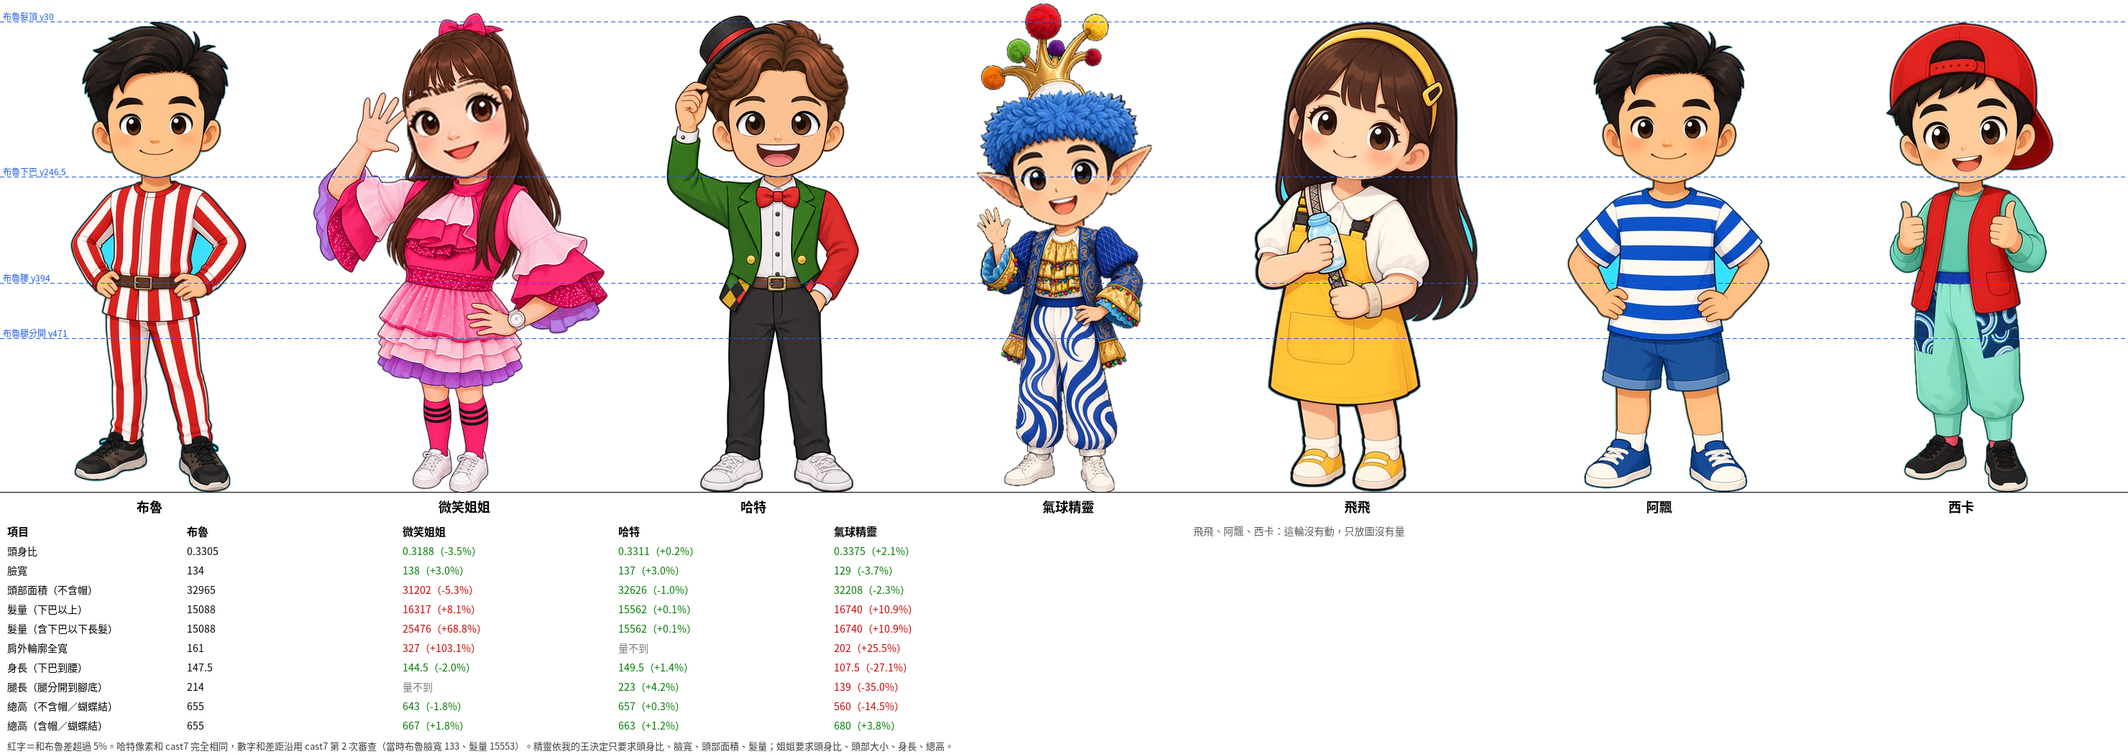
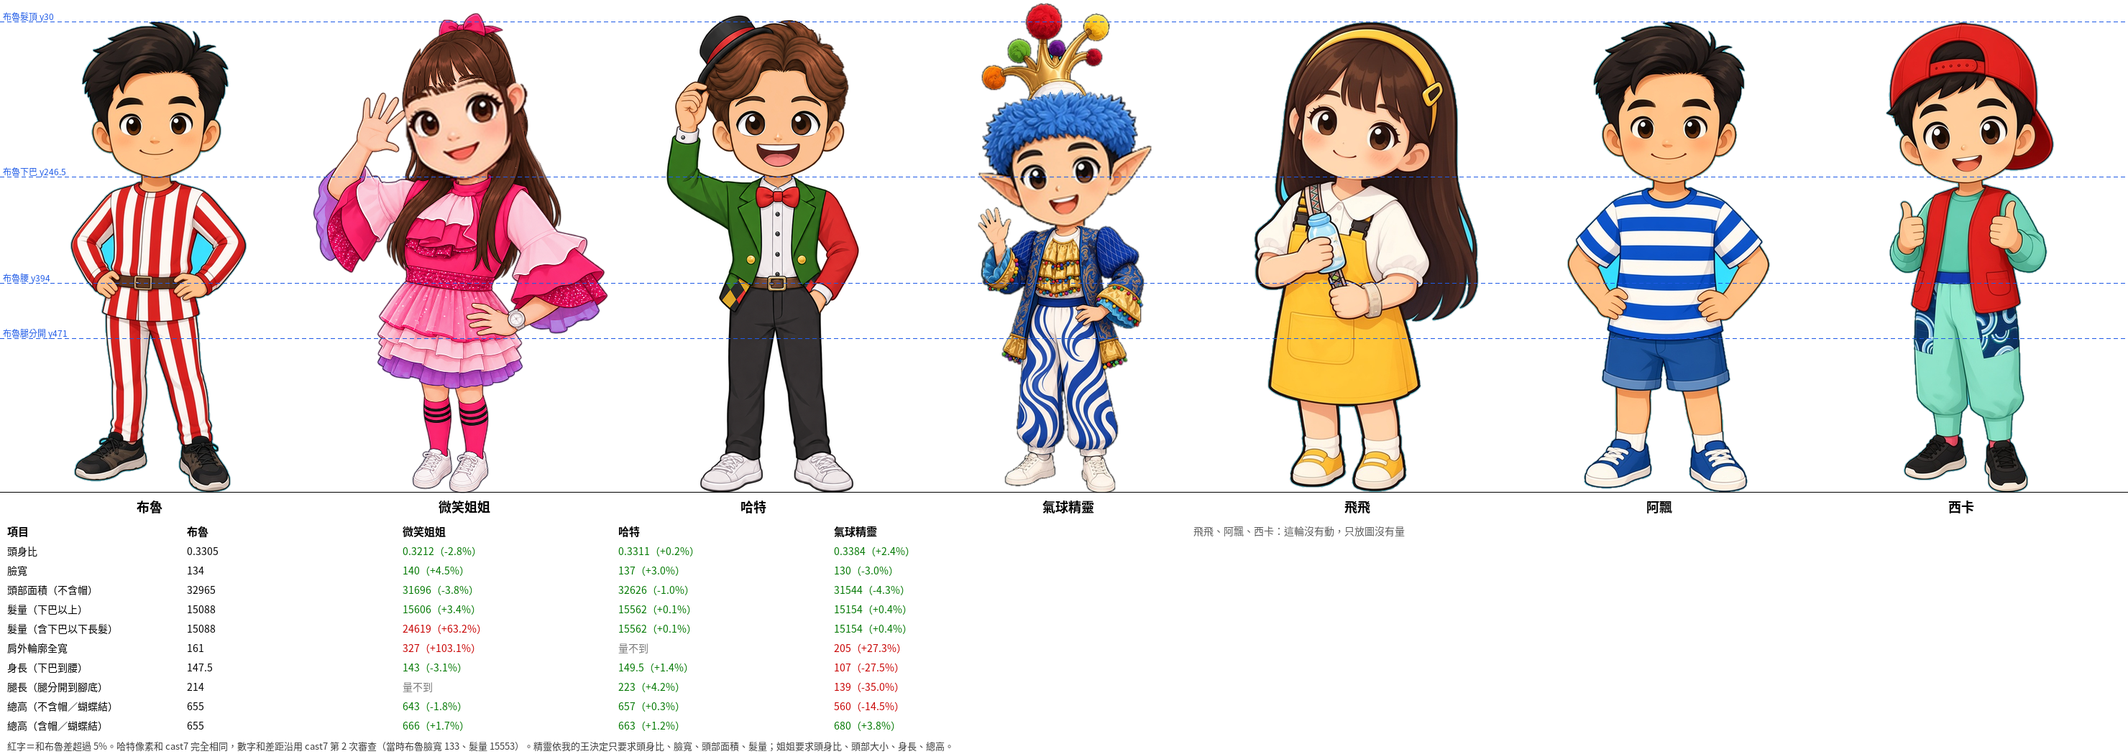
小頌 cast8 第 2 次交叉檢查：審查圖與報告

diff --git a/review/cast8/xiaosong/review-r2.md b/review/cast8/xiaosong/review-r2.md
@@ -1,81 +1,172 @@
-# 小頌 cast8 第 2 次交叉檢查（最終候選：assets/chars/jiejie.png、spirit.png）
+VERDICT: FAIL
 
-日期：2026-11-12｜分支 xiaoxia/cast-redraw-v2，HEAD f346cdf，工作區未 commit
-範圍：只讀、只寫本目錄。沒畫圖、沒改圖、沒 commit/push，沒開 Photoshop／Illustrator。
+# 小頌交叉檢查：PR #5 cast8（第 2 次審查）
 
-## 0. 先講限制
-- 本工作階段 python3、ffmpeg 都要權限沒人按，**我這輪沒有獨立實跑任何像素量測**。
-  下面數字都是小夏 `inspect_cast8.py` 的輸出；我做的是：讀程式、讀 build 程式與 provenance、看全部審查圖與遮罩、用 git 核對檔案。
-- 我 r1 的 `measure_cast8.py` 已被小夏指出三個錯（原圖預設讀現有 assets、下巴目測錯、耳朵分割錯、布魯基準對不上）。**r1 的程式與數字作廢，不要再用。**
+小頌，2026-11-12。只檢查，沒有生圖、改圖、commit、push、merge，沒有碰 PR #4、photo-live-beauty、threads-revival。
+審的是分支 xiaoxia/cast-redraw-v2 的 commit caf270c（本機和遠端同一個 commit，審查前工作區乾淨）。標準是 `assets/chars/bulu.png`。
+量測是我在本機實際跑的，直接讀像素，用的是第 1 次留在 repo 的同一套程式（`review/cast8/xiaosong/final-scripts/`）。我先拿它重量第 1 次那版圖，數字和第 1 次報告完全一樣，確認量法沒變，再量這一版。
 
-## 1. 用 git 能獨立確認的
-- 哈特：`5b125dc` 與 `f346cdf` 的 hate.png blob 相同（b001f16…），工作區 hate.png／webp 未修改 → 哈特零變動，確認。
-- 工作區只有 jiejie／spirit 的 png、webp 變動，其他五人未動，確認。
-- webp 與 png 一致、硬邊 0、碎點 0：只看到小夏的 validation.json，未獨立重跑。
+## 結論：數字全部過了，卡在姐姐的兩件事
 
-## 2. 證據本身的問題
-1. **cmp-seven.png 與 measurements.md 數字不一致**：精靈頭部面積 31914 vs 31770、髮量 16196 vs 16126。兩份不是同一次執行的結果，要用同一版重出。
-2. **下巴是手填常數**（姐姐 248、精靈 319），頭高、頭身比、身長都跟著它。請在 overlay 上畫出下巴那一列，附 4 倍放大圖證明。
-3. **精靈髮頂只認藍色**（y<195 只留藍色像素）：髮頂上緣 1～2 px 的深色描邊被排除，布魯的髮量卻含描邊。結果是精靈髮量偏低、髮頂偏低。
-4. **姐姐臉遮罩漏進頭髮**：mask-jiejie-face.png 在 (205～270, 60～125) 有一條細弧和碎塊伸進頭髮裡（髮絲亮部被當成膚色），左緣 (192～200, 145～162) 還有一個凸出塊。臉寬 139 很可能就是量在有凸出塊的那一列；不含凸出塊目測約 130～135。請在報告裡寫出臉寬取在哪一列、x 從多少到多少。
-5. **精靈頭寬 241 含尖耳**，跟布魯（沒有尖耳）不能直接比。請另外量「不含耳的頭寬」，目測約 205（布魯 204）。
+哈特過。精靈過。姐姐的比例數字也都過了，但有兩件事讓我不能給通過：
 
-## 3. 過不過 ±5%（依小夏數字，加上我判斷的誤差方向）
+1. **姐姐的服裝不是原設定的樣子。** 叉腰那隻手的袖子從手肘長度變成垂到腰的大喇叭袖，腿比原設定粗短。小夏自己的報告也寫「尚未修回」。
+2. **姐姐的瀏海有接縫。** 頭髮和臉是分開縮放的，兩層的瀏海沒接起來，放大看是上下兩排瀏海線，中間露出額頭。這一點第 1 次那版就有，是我當時漏看。
 
-| 項目 | 數值（差距） | 判斷 |
+第 1 次點的三個問題（精靈髮量超標、兩個透空破洞、姐姐頭部面積和髮量貼線）這輪都修好了。
+
+如果我的王看圖後覺得姐姐的袖子和腿可以接受，那就只剩瀏海接縫要修。
+
+## 1. 哈特：過
+
+| 檢查 | 結果 |
+|---|---|
+| 和 `5b125dc:assets/chars/hate.png` 逐像素比（RGBA 四個色版） | **0 個像素不同** |
+| 檔案 sha256 | 兩邊相同（99e82826…） |
+| git blob | 現在、5b125dc、f346cdf 三個都是 b001f163… |
+| hate.webp | 檔案和 5b125dc 相同，解開後和 PNG 0 個像素不同 |
+
+布魯、飛飛、阿飄、西卡的 PNG／WebP 從 f346cdf 到現在也都沒變。
+
+## 2. 逐項數字表（布魯 vs 三人）
+
+四張都是 540×720、腳底 y685，原圖直接比。括號是和布魯的差距，**粗體是超過 5%**。帽子、皇冠、蝴蝶結不算頭。
+
+| 項目 | 布魯 | 微笑姐姐 | 哈特（沿用 cast7） | 氣球精靈 |
+|---|---:|---:|---:|---:|
+| 頭身比（頭高÷不含帽總高） | 0.3305 | 0.3212（−2.8%） | 0.3311（+0.2%） | 0.3384（+2.4%） |
+| 臉最寬（不含耳） | 134 | 140（+4.5%） | 137（+2.2%） | 130（−3.0%） |
+| 頭部面積（不含帽） | 32965 | 31696（−3.8%） | 32626（−1.0%） | 31544（−4.3%） |
+| 髮量（下巴以上） | 15088 | 15606（+3.4%） | 15562（+3.1%） | 15154（+0.4%） |
+| 髮量（含垂到下巴以下的長髮） | 15088 | **24619（+63.2%）** | 15562（+3.1%） | 15154（+0.4%） |
+| 頭高（髮頂到下巴） | 216.5 | 206.5（−4.6%） | 217.5（+0.5%） | **189.5（−12.5%）** |
+| 頭寬（含頭髮、含耳） | 204 | 197（−3.4%） | 194（−4.9%） | **234（+14.7%）** |
+| 頭寬（扣掉耳朵） | 204 | 197（−3.4%） | — | 211（+3.4%） |
+| 臉的面積 | 16159 | **15163（−6.2%）** | — | **12594（−22.1%）** |
+| 肩外輪廓全寬（下巴下 34 px，含手臂袖子） | 161 | **327（+103.1%）** | 量不到（左手舉起） | **205（+27.3%）** |
+| 肩外輪廓右側單邊 | 83 | **130（+56.6%）** | 83（0.0%） | **105（+26.5%）** |
+| 身長（下巴到腰） | 147.5 | 143（−3.1%） | 149.5（+1.4%） | **107（−27.5%）** |
+| 腰到腳底 | 291 | 293.5（+0.9%） | 290（−0.3%） | **263.5（−9.5%）** |
+| 腿長（兩腿分開點到腳底） | 214 | 量不到（裙子蓋住） | 223（+4.2%） | **139（−35.0%）** |
+| 總高，不含帽／蝴蝶結 | 655 | 643（−1.8%） | 657（+0.3%） | **560（−14.5%）** |
+| 總高，含帽／蝴蝶結 | 655 | 666（+1.7%） | 663（+1.2%） | 680（+3.8%） |
+
+定位點（y 座標）：布魯髮頂 30、下巴 246.5、腰 394；姐姐髮頂 42、下巴 248.5、腰 391.5；精靈髮頂 125、下巴 314.5、腰 421.5、皇冠頂 5。下巴一律取「臉最低的膚色那一列再往下 1.5 px」（輪廓線中心），三人同一個取法。
+
+哈特像素和 cast7 完全相同，數值沿用 cast7 第 2 次審查，差距改用這次的布魯重算。
+
+對照我的王訂的條件：
+
+- **氣球精靈**（頭身比、臉寬、頭部面積、髮量）：**四項都在 5% 內，過。** 總高含帽 680（+3.8%）、不含帽 560（−14.5%），依規定不列入通過條件。身長、腿長、肩寬、頭高紅字的那些也不在精靈的條件裡。
+- **微笑姐姐**（頭身比、頭部大小、身長、總高）：**頭身比、臉寬、頭部面積、髮量、身長、總高（含不含蝴蝶結）都在 5% 內，過。**
+
+數字穩不穩（換量法再量一次）：
+
+- 姐姐下巴如果取 247 到 249：頭身比 −3.5%～−2.6%，頭部面積 −4.4%～−3.3%，髮量 +2.3%～+4.6%，身長 −2.0%～−3.4%。都還在線內。
+- 髮量換三種算法（改分界參數、扣掉貼臉 3 px 輪廓線、純用顏色數）：姐姐 −0.7%～+4.1%，精靈 −1.5%～+1.8%。第 1 次同樣的試法精靈是 +7%～+13%，這次確實降下來了。
+- 精靈髮頂如果取 127（小夏的取法）：頭身比 +1.4%。
+- 離線最近的三個：姐姐臉寬 +4.5%、姐姐頭高 −4.6%、精靈頭部面積 −4.3%。都過，但沒有多少餘裕，之後再動頭就要重量。
+- 小夏報告的數字和我的對得上（她下巴取 249、精靈髮頂取 127，其餘相同），沒有任何一項結論相反。
+
+不在通過條件裡、但我的王應該知道的：
+
+- 姐姐含長髮的髮量 +63%。長髮是原設定髮型，縮不掉。
+- 姐姐肩外輪廓比布魯寬一倍，是大喇叭袖造成的。
+- 精靈臉的面積比布魯少 22%，因為尖耳朵很大（耳朵面積是布魯的 2.2 倍），頭部面積是靠耳朵和頭髮補上來的。臉寬 −3.0% 是過的。
+- 精靈含耳朵的頭寬 +14.7%，扣掉耳朵 +3.4%。
+
+## 3. 原設定一致性
+
+| 檢查 | 微笑姐姐 | 氣球精靈 |
 |---|---|---|
-| 精靈 頭身比 | 0.3450（+4.37%） | **離上限只差 0.6%，不穩。** 上限 0.347 換算髮頂要 ≥ y125.3；現在用只認藍色的規則量到 127，把描邊算進去大約 125～126，**很可能超標**。 |
-| 精靈 臉寬 | 127（-4.51%） | **離下限只剩 0.6 px，不穩。** |
-| 精靈 髮量 | 16126（+3.68%） | 描邊沒算進去；算進去可能到 +6～8%，**要重量**。 |
-| 精靈 頭部面積 | 31770（-3.63%） | 暫過 |
-| 姐姐 臉寬 | 139（+4.51%） | 可能被凸出塊撐大；扣掉凸出塊反而比較穩，要重量 |
-| 姐姐 頭身比／頭部面積／髮量（下巴以上）／身長／總高 | -2.84／-2.62／+2.05／-3.39／-1.83 | 暫過，有餘裕 |
-| 姐姐 含長髮髮量 | +47.55% | 布魯是短髮，這項本來就不能比。**「髮量」算不算長髮要我的王定**；我建議主表用「下巴以上」，含長髮列為參考。 |
-| 肩寬（姐姐 +103%、精靈 +23%） | — | 不在這次 ±5% 項目內，照實列出就好。 |
+| 臉（拿原設定的臉等比放大去對新圖） | 放大 1.875 倍對上（相似度 0.99），長寬同倍率，沒有轉動 | 放大 1.65 倍對上（相似度 0.94），長寬同倍率 |
+| 髮型 | 齊瀏海、半紮、長直髮、蝴蝶結都在；瀏海有接縫（見第 4 節） | 藍色蓬髮、黑鬢角、尖耳都在 |
+| 服裝 | **款式在，細節和原設定不同**（見下） | 原圖等比縮 0.925 倍對上（相似度 0.98） |
+| 姿勢 | 右手舉起張開、左手叉腰，和原設定相同 | 右手舉起張開、左手叉腰，和原設定相同 |
+| 皇冠／高帽 | — | **原尺寸，沒縮。** 新圖皇冠等於原設定往上移 30 px，重疊的 8,585 個像素裡 8,513 個顏色完全相同；和 cast7 那版的皇冠輪廓像素數一樣（9,574） |
+| 非等比拉伸 | 臉沒有；身體是重畫，不是拉伸 | 沒有 |
 
-**給精靈留餘裕的做法（只是建議，小夏決定）：**
-- 臉的倍率改成和頭一樣 1.575，不再分開放大。臉寬約 129（-3%），也順便消掉雙層臉的風險。
-- 身體倍率 0.91 → 0.92。頭身比約 0.342（+3.4%），皇冠頂會往上移約 5 px，到 y≈6，仍在畫面內。
-- 改完要重量頭部面積，還有皇冠頂有沒有碰到 y0。
+姐姐身體和原設定不一樣的地方（和第 1 次相同，這輪沒有修）：
 
-## 4. 設定與接縫
+- **叉腰那隻手的袖子：原設定是到手肘的兩層荷葉袖，現在是垂到腰的大喇叭袖。**
+- 腿變粗短（拿原設定的腿去對，寬度約 0.80 倍、長度約 0.76 倍）。
+- 裙子變短，上身變長，領巾變大。
+- 上身變長、腿變短本身是我的王要的（原設定上身比布魯短 21%、腰以下長 32%）。但袖子變大不是比例要求造成的，是重畫帶進來的。
 
-### 精靈
-- **皇冠**：維持原尺寸，在畫面內（頂 y11），這點確認。
-  但上下層順序反過來了：原設定是皇冠白底座壓在頭髮**前面**，現在是放大後的頭髮壓在皇冠**前面**，底座下緣大約 15～19 px 被遮住（edges-spirit 第一格看得到藍色髮尖蓋在白底座上）。provenance 有寫這件事。**這是「帽子怎麼戴」的改變，不能算「皇冠完整」，要我的王看圖決定。**
-  另外，頭髮圖層在原皇冠底座的位置挖掉了非藍色像素，挖掉的洞也跟著放大了 1.575 倍，請放大檢查底座周圍有沒有破洞或透出底色。
-- **身體縮成 0.91 倍**：我 r1 提醒過，要先確認我的王有沒有同意縮精靈的身體；目前沒看到我的王同意的紀錄。身長 -28%、腿長 -36% 跟原設定的比例一致，不是這次改出來的。
-- **袖口**：黑線連續了，但那是**新描上去的 1.75 px 線**，不是原圖像素，要照實寫。spirit-cuff.png 第三格的線外側還留著 cast7 的淺灰半透明邊，珠子下方也有灰點。這條線是在 finish() 之後才疊上去的，沒經過邊緣處理，請量 alpha 1～127 的殘點。
-- **臉**：臉 1.55 倍疊在頭 1.575 倍上面，兩層五官大約差 2 px。目視沒看到雙眼、雙嘴，但沒做像素級確認。
+姐姐這輪多了一隻右耳。原設定同位置本來就有耳朵，位置和形狀對得上，不是新加的東西。
 
-### 姐姐（嚴格看設定）
-- provenance 寫得對：**除了臉，全身（頭髮、衣服、袖子、鞋帶）都是生圖重畫的，不是原圖像素縮放**，報告必須照這樣寫。
-- 和原設定（525ab99）比，還在的：
-  - 頭髮：齊瀏海、長直髮、右後方半紮的髮包
-  - 配件：粉色蝴蝶結、手錶
-  - 衣服：高領、白色荷葉領巾、桃紅背心、亮片腰帶、四層裙（紗、淺粉、粉、紫）、及膝襪三條黑紋、白球鞋
-  - 姿勢：舉手、叉腰
-- **跟原設定不一樣、要我的王判斷的**：
-  1. **比例**：腰到裙襬變短、軀幹變長、腿變短。原設定大約是軀幹 0.22、裙子 0.40、腿 0.38；新版大約是 0.33、0.33、0.34（從 before-after 估的，±5 px）。身長要對齊布魯，本來就得拉長軀幹，但裙子和腿不是等比縮的，是生圖重新分配的。
-  2. **叉腰那一側的喇叭袖**：外擴大約多 30 px，形狀比原設定更大更開。
-  3. **髮尾**：相對身體變長，垂到 y≈385，所以含長髮的髮量是 +47%。
-  4. **臉放大 1.8 倍**：解析度比周圍頭髮軟，睫毛線變粗。
-- **接縫**：脖子帶 y230～258 是 0.91 倍和 1.0 倍兩層頭髮混合，在 y250 附近兩層會錯開大約 19 px。兩側還有 (194～226, 232～274)、(334～379, 232～274) 兩塊模糊貼補，也就是三種來源拼在一起。目前圖看起來沒有明顯雙影，但放大倍數不夠。**請出 4 倍放大的 y225～285 全寬圖**，檢查髮絲有沒有斷掉或重複。
-- **舉手指尖和臉左緣**：(188～205, 120～170) 有一條深棕細條夾在手指和臉之間，請放大確認是頭髮還是疊圖殘影。
+## 4. 站正、五官、邊緣、斷線
 
-## 5. 結論
-- 哈特沒動、其他五人沒動，確認。
-- **cast8 現在不能判定 ±5% 通過**：
-  - 精靈的頭身比、臉寬都貼著邊界，而且量法誤差的方向對結果不利。
-  - 姐姐的臉遮罩有漏，cmp-seven 和 measurements 的數字對不上。
-- **設定方面要我的王點頭的四件事**：
-  1. 精靈的頭髮蓋住皇冠底座，皇冠和頭髮的上下層順序反過來了。
-  2. 精靈的身體縮成 0.91 倍。
-  3. 姐姐全身重畫，裙子、腿、軀幹的比例重新分配，喇叭袖變大。
-  4. 「髮量」要不要把長髮算進去。
-- 下一輪請：
-  1. 修好量法（精靈髮頂含描邊、姐姐臉遮罩去掉漏出去的部分）。
-  2. 所有證據圖用同一版重出。
-  3. 精靈留出至少 2% 的餘裕。
-  4. 補上脖子帶和指尖的 4 倍放大圖。
-  我拿到能執行的權限後會再獨立實跑一次。
+| 項目 | 微笑姐姐 | 哈特 | 氣球精靈 |
+|---|---|---|---|
+| 尺寸、腳底 | 540×720、y685 | 540×720、y685 | 540×720、y685 |
+| WebP 和 PNG 逐像素 | 相同 | 相同 | 相同 |
+| 硬切像素（不透明直接貼全透明） | 0 | 和 cast7 相同，沒動 | 0 |
+| 邊緣帶半透明比例 | 99.7% | 沒動 | 99.7% |
+| 分離的碎點（透明度 >0 的獨立小塊） | 0 | 3 塊（cast7 就有，透明度最高 3/255） | 0 |
+| 貼邊的青藍色背景 | 0 | 0 | 1 個像素 |
+| 輪廓內的透空破洞 | 第 1 次的瀏海破洞已補；剩下的都是真的空隙 | — | 第 1 次的皇冠底座破洞、袖口細縫、手腕彎線都已補；只剩另一側手臂和身體之間的空隙 |
+| 外圈深色描邊 | 2,457 個輪廓點裡 2 個不夠深 | 全部連續 | 2,891 個輪廓點裡 33 個不夠深，最長一段 8 px |
+
+- **精靈舉手袖口：過。** 袖口外圈 139 個輪廓點全部有深色描邊，沒有缺口（cast7 是 76%、最長缺口 14 個點）。袖口內側的半透明細縫和手腕旁的透空彎線這輪都補實了，透明度圖是乾淨的一整塊。
+- **精靈皇冠底座和頭髮交界：** 破洞補好了。頭髮頂端貼著白色底座的那一排髮尖沒有深色輪廓線（原設定有），外圈那 8 px 不夠深的也在這裡。正常大小看不出來，不擋。
+- **姐姐瀏海接縫：不過。** 位置大約 x195～345、y95～135。頭髮層的瀏海在上面結束，臉層自己帶著一排放大過的瀏海尾端在下面，兩排沒對上：左半邊是一排粗粗的髮尾，右半邊是一條懸在額頭上的弧線，中間露出膚色。正常大小看得到右眼上方多一條線。第 1 次那版就是這樣，我當時只顧著看破洞，漏了。
+- 姐姐左上方頭髮外緣（x200～215、y65～85）有幾根鋸齒狀的髮尖，原設定這裡是平滑的弧線。小問題。
+- 姐姐左臉頰外側的髮絲透明縫（x199～209、y226～248）還在，原設定同位置是頭髮。看起來像自然髮縫，上一輪已說明。
+- 姐姐右耳和頭髮交界：柔邊，沒有階梯。下巴、脖子：兩人都沒有斷線或色塊。
+- **站正：** 身體都是直的。臉只有等比放大、沒有轉動，所以歪頭角度和原設定一樣（姐姐約 17°、精靈約 9°；布魯 2°、哈特 0°）。歪頭是原設定姿勢的一部分，要不要扶正由我的王決定。
+- **五官：** 三人眼型、眉毛、嘴型、臉型都不同，沒有共用同一張臉。
+
+## 問題
+
+1. 姐姐服裝和原設定不同：叉腰手的大喇叭袖、粗短腿。小夏報告也列為沒做到。
+2. 姐姐瀏海有兩排線的接縫。
+3. 姐姐左上頭髮外緣有鋸齒狀髮尖（小）。
+4. 精靈頭髮頂端貼皇冠底座那一排少了深色輪廓線（小，不擋）。
+5. 姐姐含長髮的髮量 +63%，原設定髮型本來就這樣。
+6. 遊戲實際顯示的 `assets/chars/expr/`、`avatars/` 這輪沒動（從 f346cdf 到現在零變更），我也沒有驗遊戲畫面。小夏報告有如實寫。
+
+## 建議
+
+1. 哈特、精靈維持現在這版，不要再動。精靈頭部面積只剩 0.7% 的餘裕，動了就要重量。
+2. 姐姐瀏海：臉層上緣帶出來的那排瀏海尾端和弧線清掉，改由頭髮層的瀏海往下延伸蓋到眉毛上方，或把那一段重描成一排。修完臉寬和髮量要重量（臉寬現在 +4.5%）。
+3. 姐姐袖子和腿：請我的王看 `review/cast8/before-after-jiejie.png` 決定。要修回的話，叉腰手的袖子改回到手肘的長度，腿照原設定的粗細等比縮短。
+4. 請我的王決定：姐姐長髮要不要列入髮量；姐姐和精靈的歪頭要不要扶正。
+5. 定案後要同步 `expr/`、`avatars/` 並驗遊戲畫面，這一輪不在範圍內。
+
+## 圖檔位置
+
+我做的圖（repo 內相對路徑，worktree `/Volumes/外接資料碟/ai-lab/fantaco-cast-v2`，只放檔案，沒有 git add 或 commit）：
+
+- `review/cast8/xiaosong/overlay-jiejie-vs-blue.png`
+- `review/cast8/xiaosong/overlay-hate-vs-blue.png`
+- `review/cast8/xiaosong/overlay-spirit-vs-blue.png`
+- `review/cast8/xiaosong/cmp-seven.png`
+- `review/cast8/xiaosong/edges-jiejie.png`（第 1 格是瀏海接縫，最下面一格是原設定的瀏海）
+- `review/cast8/xiaosong/edges-hate.png`
+- `review/cast8/xiaosong/edges-spirit.png`（第 1 格是袖口現版，最下面三格依序是原設定、cast7、cast8 第 1 次那版的袖口）
+
+這幾張蓋掉了第 1 次審查的同名圖，舊版在 commit dc305f3 裡。哈特兩張重跑後和第 1 次一模一樣。
+疊圖：左邊兩人各 50% 透明相疊、右邊輪廓線（藍色布魯、紅色對照角色），原尺寸、腳底對齊 y685。七人對照：七人原尺寸站同一條腳底線，藍虛線是布魯的髮頂、下巴、腰、腿分開點，下方數字表紅字是超過 5%；飛飛、阿飄、西卡只放圖沒有量。邊緣圖：左邊深色底和白底全身，右邊每格是白底｜深底｜透明度。
+七人圖裡哈特那一欄的臉寬、髮量差距印的是 cast7 當時的值（+3.0%、+0.1%），以本報告表格為準。
+
+小夏的圖（同一個 repo）：
+
+- `review/cast8/cmp-seven.png`
+- `review/cast8/overlay-jiejie-vs-blue.png`、`review/cast8/overlay-hate-vs-blue.png`、`review/cast8/overlay-spirit-vs-blue.png`
+- `review/cast8/edges-jiejie.png`、`review/cast8/edges-hate.png`、`review/cast8/edges-spirit.png`
+- `review/cast8/before-after-jiejie.png`、`review/cast8/before-after-spirit.png`
+- `review/cast8/spirit-cuff.png`、`review/cast8/spirit-cuff-repair-r2.png`
+- `review/cast8/spirit-crown-4x.png`、`review/cast8/spirit-crown-repair-r2.png`、`review/cast8/spirit-face-width-4x.png`
+- `review/cast8/chin-4x-jiejie.png`、`review/cast8/chin-4x-spirit.png`
+- `review/cast8/landmarks-jiejie.png`、`review/cast8/landmarks-spirit.png`
+- `review/cast8/jiejie-ear-r2.png`、`review/cast8/jiejie-fringe-repair-r2.png`
+- `review/cast8/jiejie-neck-4x.png`、`review/cast8/jiejie-fingers-4x.png`、`review/cast8/jiejie-cheek-source-4x.png`、`review/cast8/jiejie-left-cheek-4x.png`、`review/cast8/jiejie-right-fringe-4x.png`、`review/cast8/jiejie-right-neck-4x.png`
+- `review/cast8/mask-jiejie.png`、`review/cast8/mask-spirit.png`，以及 `review/cast8/mask-<jiejie|spirit>-<face|hair|hair-all|head|ears>.png`、`review/cast8/mask-spirit-crown.png`
+- `review/cast8/source/jiejie-seam-repair.png`
+
+小夏的這些圖我這次沒有逐張核對，結論全部來自自己重量的數字和自己做的圖。
+
+## 清理
+
+暫存資料夾 `/Volumes/外接資料碟/AI工作/暫存/cast8-review2/`（原設定圖、cast7 圖、第 1 次那版圖、放大圖、程式副本）已刪除。worktree 只改了 `review/cast8/xiaosong/` 底下五張圖（另外兩張哈特圖重跑後內容相同），沒有動其他檔案。沒有開 Photoshop 或 Illustrator，pgrep 確認兩個都沒有程序。
